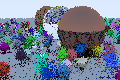
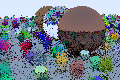
Add samplers (regular, jittered, half-jittered, poisson-disk and simple n-rooks

diff --git a/core/samplers.py b/core/samplers.py
@@ -1,0 +1,214 @@
+import math
+from bisect import bisect_left
+from functools import reduce
+
+import numpy as np
+
+uniform = np.random.uniform
+
+"""
+utility functions
+"""
+
+
+def plotter(samples, title, grid=False):
+    from matplotlib import pyplot as plt
+
+    if grid:
+        samples, grid = samples
+        grid_i = grid[0]
+        grid_j = grid[1]
+        all_axis = np.zeros(samples.shape)
+        all_axis[:, 1] = 1
+
+    plt.scatter(samples[:, 0], samples[:, 1])
+    plt.title(title)
+    axes = plt.gca()
+    axes.set_xlim([-0.1, 1.1])
+    axes.set_ylim([-0.1, 1.1])
+    axes.set_aspect('equal')
+    if grid:
+        for idx in range(len(grid_i)):
+            plt.plot([grid_i[idx], grid_i[idx]], all_axis[idx], alpha=0.2, color='b', dashes=[6, 2])
+        for idx in range(len(grid_j)):
+            plt.plot(all_axis[idx], [grid_j[idx], grid_j[idx]], alpha=0.2, color='b', dashes=[6, 2])
+
+        # add grid lines of the last elements of the square
+        plt.plot([all_axis[1], all_axis[1]], all_axis[idx], alpha=0.2, color='b', dashes=[6, 2])
+        plt.plot(all_axis[idx], [all_axis[1], all_axis[1]], alpha=0.2, color='b', dashes=[6, 2])
+
+    plt.show()
+
+
+def get_factors(n):
+    # get factors and make it a set to remove duplicates
+    # then make it a lit to sort in in increasing order
+    factors = list(set(reduce(list.__add__, ([i, n // i] for i in range(1, int(n ** 0.5) + 1) if n % i == 0))))
+    factors.sort()
+
+    # return all factors execept the original number (n)
+    return factors[:-1]
+
+
+def takeClosest(my_list, number):
+    """
+    Assumes my_list is sorted. Returns closest value to number.
+
+    If two numbers are equally close, return the smallest number.
+    """
+
+    pos = bisect_left(my_list, number)
+    if pos == 0:
+        return my_list[0]
+    if pos == len(my_list):
+        return my_list[-1]
+    before = my_list[pos - 1]
+    after = my_list[pos]
+    if after - number < number - before:
+        return after
+    else:
+        return before
+
+
+def two_factors_to_n(n):
+    """
+    n is an integer number
+
+    The function returns two integers that multiplied together give n -> int1 * int2 = n
+    """
+
+    factors = get_factors(n)
+    int1 = takeClosest(factors, math.sqrt(n))
+    int2 = n // int1
+    return int1, int2
+
+
+"""
+sampling functions
+"""
+
+
+def random_sampling(N, dim=2):
+    return uniform(0, 1, (N, dim))
+
+
+def regular_sampling(N, dim=2):
+    samples = np.zeros((N, dim))
+
+    if dim == 2:
+        # split N into two factors in such a way N = nx * ny
+        ny, nx = two_factors_to_n(N)
+
+        # get all the combinations of nx and ny
+        j, i = np.meshgrid(range(nx), range(ny))
+
+        # get grid values
+        grid_i = i[:, 0] / nx
+        grid_j = j[0] / ny
+
+        j, i = j.flatten(), i.flatten()
+
+        # get samples
+        samples[:, 0] = (i + 0.5) / nx
+        samples[:, 1] = (j + 0.5) / ny
+
+    return samples, [grid_i, grid_j]
+
+
+def jittered_sampling(N, dim=2):
+    samples = np.zeros((N, dim))
+
+    if dim == 2:
+        # split N into two factors in such a way N = nx * ny
+        ny, nx = two_factors_to_n(N)
+
+        # get all the combinations of nx and ny
+        j, i = np.meshgrid(range(ny), range(nx))
+
+        # get grid values
+        grid_i = i[:, 0] / nx
+        grid_j = j[0] / ny
+
+        # flatten idxs to get samples
+        j, i = j.flatten(), i.flatten()
+
+        # get samples
+        samples[:, 0] = uniform(i / nx, (i + 1) / nx)
+        samples[:, 1] = uniform(j / ny, (j + 1) / ny)
+
+    return samples, [grid_i, grid_j]
+
+
+def half_jittered_sampling(N, dim=2):
+    samples = np.zeros((N, dim))
+
+    if dim == 2:
+        # split N into two factors in such a way N = nx * ny
+        ny, nx = two_factors_to_n(N)
+
+        # get all the combinations of nx and ny
+        j, i = np.meshgrid(range(ny), range(nx))
+
+        # get grid values
+        grid_i = i[:, 0] / nx
+        grid_j = j[0] / ny
+
+        # flatten idxs to get samples
+        j, i = j.flatten(), i.flatten()
+
+        # get samples
+        samples[:, 0] = uniform((i + 0.25) / nx, (i + 0.75) / nx)
+        samples[:, 1] = uniform((j + 0.25) / ny, (j + 0.75) / ny)
+
+    return samples, [grid_i, grid_j]
+
+
+def poisson_disk_sampling(N, d, dim=2):
+    def get_mask(samples):
+        j, i = np.meshgrid(range(N), range(N))
+        j, i = j.flatten(), i.flatten()
+
+        dist = ((samples[i, 0] - samples[j, 0]) ** 2 + (samples[i, 1] - samples[j, 1]) ** 2).reshape((N, N))
+
+        upper_diag_idx = np.triu_indices(N)
+        dist[upper_diag_idx] = float('inf')
+        mask = np.any(dist < d ** 2, axis=1)
+        return mask
+
+    samples = uniform(0, 1, (N, dim))
+    mask = get_mask(samples)
+
+    while np.any(mask):
+        samples[mask] = uniform(0, 1, (N, dim))[mask]
+        mask = get_mask(samples)
+
+    return samples
+
+
+def n_rooks_sampling(N, dim=2):
+    samples = np.zeros((N, dim))
+    i = np.arange(0, N)
+    samples_x = uniform(i / N, (i + 1) / N)
+    samples_y = uniform(i / N, (i + 1) / N)
+
+    # get grid values
+    grid_i = grid_j = i / N
+
+    # randomly shuffle samples over X
+    np.random.shuffle(samples_x)
+    samples[:, 0] = samples_x
+    samples[:, 1] = samples_y
+
+    return samples, [grid_i, grid_j]
+
+
+"""
+Test of the sampling functions
+"""
+
+plotter(random_sampling(36), 'random sampling')
+plotter(regular_sampling(36), 'regular sampling', grid=True)
+plotter(jittered_sampling(36), 'jitered sampling', grid=True)
+plotter(half_jittered_sampling(36), 'half-jitered sampling', grid=True)
+plotter(poisson_disk_sampling(36, d=0.1), 'poisson disk sampling')
+plotter(n_rooks_sampling(36), 'n rooks sampling', grid=True)

diff --git a/test/aabb_test.py b/test/aabb_test.py
@@ -2,6 +2,8 @@ from core import Camera, Multithread
 from integrators import PathTracer, Depth, SurfaceNormal
 from matplotlib import pyplot as plt
 from scenes import spheres, moving_spheres
+from geometries import MovingSphere, Sphere, HitableList
+from materials import Lambertian, Dielectric, Metal
 
 import random
 import numpy as np
@@ -10,11 +12,11 @@ import numpy as np
 random.seed(123456)
 rand = random.random
 
-n_cores = 1  # number of cores to use
+n_cores = 8  # number of cores to use
 
-out_name = 'pruebas_bvh'  # outfile image name
+out_name = 'aabb test'  # outfile image name
 
-samples_per_pixel = 1 # number samples per pixel
+samples_per_pixel = 32  # number samples per pixel
 
 # canvas properties
 width = 120
@@ -34,7 +36,9 @@ def main():
     # create scene
     # world = spheres()
 
-    world = moving_spheres()
+    world = Sphere(center=np.array([0, 0, 0]),
+                   radius=1,
+                   material=Lambertian((0.4, 0.2, 0.1)))
 
     # set integrator
     integrator = PathTracer(samples_per_pixel, width, height)
@@ -53,8 +57,7 @@ def main():
     plt.imshow(multithread.out_img, origin='lower')
     plt.axis('off')
     plt.show()
-    plt.imsave('images/' + out_name + '.png', multithread.out_img, origin='lower')
-
+    # plt.imsave('images/' + out_name + '.png', multithread.out_img, origin='lower')
 
 if __name__ == '__main__':
     main()

diff --git a/scenes/multiple_spheres.py b/scenes/multiple_spheres.py
@@ -74,11 +74,11 @@ def moving_spheres(time0=0, time1=1):
                )
     )
 
-    for a in range(-11, 11):
-        for b in range(-11, 11):
+    for a in range(-22, 22):
+        for b in range(-22, 22):
 
             # get geometry center
-            center = np.array([a + 0.9 * rand(), 0.2, b + 0.9 * rand()])
+            center = np.array([a + 0.4 * rand(), 0.2, b + 0.4 * rand()])
 
             # set a random to choose the material of the geometry
             material_chooser = rand()
@@ -119,5 +119,5 @@ def moving_spheres(time0=0, time1=1):
                radius=1,
                material=Metal((0.4, 0.2, 0.15), 0)))
 
-    # return BVH_node(world, 0.001, float("inf"))
-    return HitableList(world)
+    return BVH_node(world, 0.001, float("inf"))
+    # return HitableList(world)

diff --git a/integrators/path_tracer.py b/integrators/path_tracer.py
@@ -53,7 +53,7 @@ class PathTracer(Integrator):
         return color_values, rows, cols
 
     def _get_color(self, ray, world, depth, max_depth=50):
-        if world.hit(ray, 0.001, float("inf")):  # return normal of a hit with an item in the world
+        if world.hit(ray, 0.001, float("inf")):
             hit_record = world.hit_record
 
             # check if the ray is absorved or scattered

diff --git a/geometries/aabb.py b/geometries/aabb.py
@@ -22,9 +22,6 @@ class AABB(Hitable):
         self.min = min
 
     def hit(self, ray, t_min, t_max):
-        # invD = 1. - ray.direction
-        # t0 = (self.min -ray.origin) * invD
-        # t1 = (self.max -ray.origin) * invD
         a = (self.min - ray.origin) / ray.direction
         b = (self.max - ray.origin) / ray.direction
         t0 = np.minimum(a, b)
